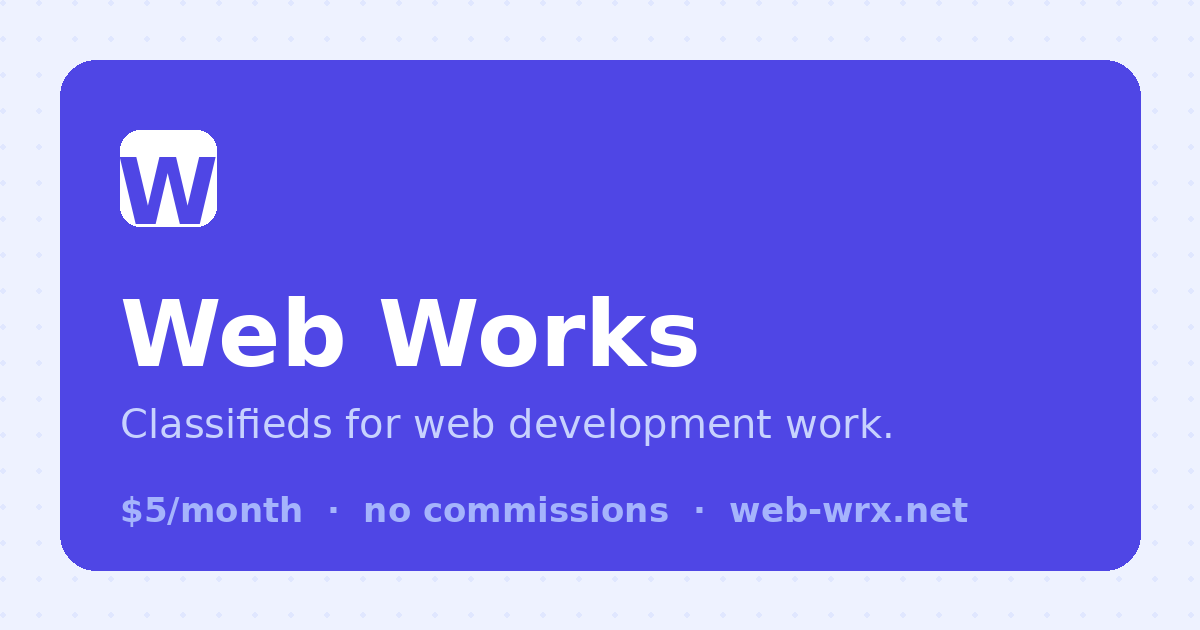
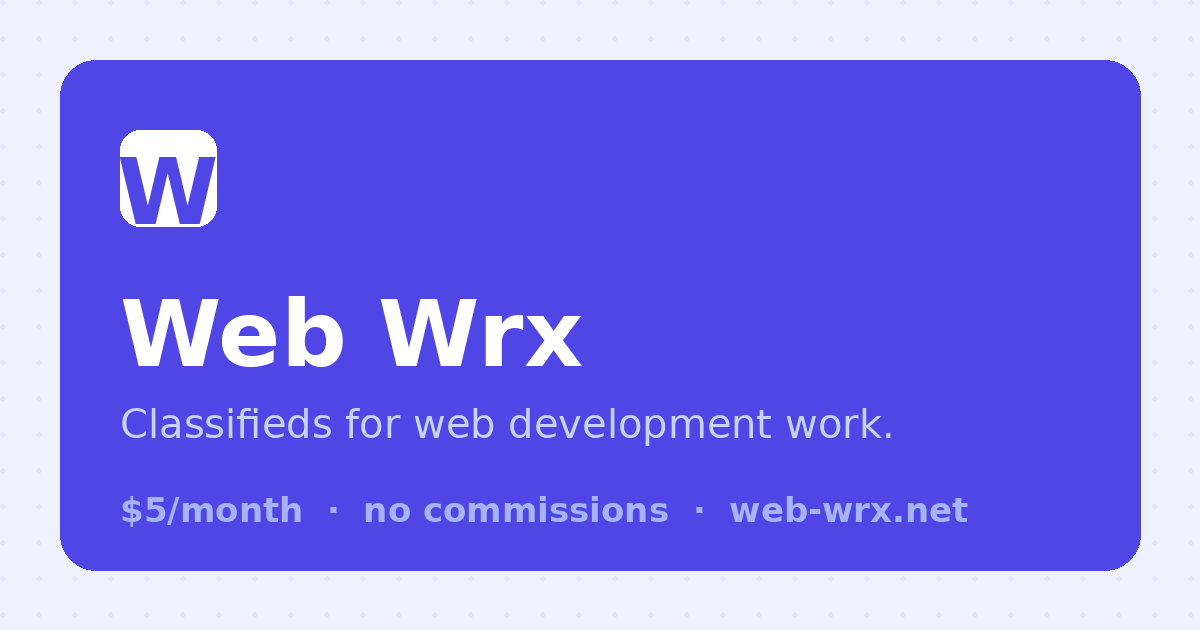
Rebrand: Web Works -> Web Wrx across site, meta, emails, OG image

Changed region(s): [[0.4008, 0.4524, 0.5858, 0.6032]]

diff --git a/src/App.jsx b/src/App.jsx
@@ -21,15 +21,15 @@ import Admin from './pages/Admin'
 import Faq from './pages/Faq'
 
 const ROUTE_META = {
-  '/': ['Web Works — Classifieds for Web Development Work', 'The $5 classifieds for web dev freelancing. Free accounts, direct contact, no commissions.'],
-  '/search': ['Search listings — Web Works', 'Browse every active web development project and talent ad. Filter by keyword or skill.'],
-  '/connect': ['How connecting works — Web Works', 'Reveal contact info and work directly — no platform middleman, no commissions.'],
-  '/about': ['About — Web Works', 'Why one developer built a $5 classifieds board for web development work.'],
-  '/post': ['Post an ad — Web Works', 'Advertise your project or your skills. $5/month, cancel anytime.'],
-  '/faq': ['Pricing & FAQ — Web Works', 'Every price, the refund policy, how review badges work, and who runs the site.'],
-  '/terms': ['Terms of Use — Web Works', 'The rules of the road for Web Works classifieds.'],
-  '/privacy': ['Privacy Policy — Web Works', 'What we collect, why, and what we never do with your data.'],
-  '/cookies': ['Cookie Policy — Web Works', 'The short list of what Web Works stores in your browser.'],
+  '/': ['Web Wrx — Classifieds for Web Development Work', 'The $5 classifieds for web dev freelancing. Free accounts, direct contact, no commissions.'],
+  '/search': ['Search listings — Web Wrx', 'Browse every active web development project and talent ad. Filter by keyword or skill.'],
+  '/connect': ['How connecting works — Web Wrx', 'Reveal contact info and work directly — no platform middleman, no commissions.'],
+  '/about': ['About — Web Wrx', 'Why one developer built a $5 classifieds board for web development work.'],
+  '/post': ['Post an ad — Web Wrx', 'Advertise your project or your skills. $5/month, cancel anytime.'],
+  '/faq': ['Pricing & FAQ — Web Wrx', 'Every price, the refund policy, how review badges work, and who runs the site.'],
+  '/terms': ['Terms of Use — Web Wrx', 'The rules of the road for Web Wrx classifieds.'],
+  '/privacy': ['Privacy Policy — Web Wrx', 'What we collect, why, and what we never do with your data.'],
+  '/cookies': ['Cookie Policy — Web Wrx', 'The short list of what Web Wrx stores in your browser.'],
 }
 
 function RouteMeta() {
@@ -37,8 +37,8 @@ function RouteMeta() {
   useEffect(() => {
     const meta =
       ROUTE_META[pathname] ??
-      (pathname.startsWith('/listing/') ? ['Listing — Web Works', 'A web development classified ad on Web Works.']
-      : pathname.startsWith('/profile/') ? ['Profile — Web Works', 'A freelancer or client profile on Web Works.']
+      (pathname.startsWith('/listing/') ? ['Listing — Web Wrx', 'A web development classified ad on Web Wrx.']
+      : pathname.startsWith('/profile/') ? ['Profile — Web Wrx', 'A freelancer or client profile on Web Wrx.']
       : ROUTE_META['/'])
     document.title = meta[0]
     document.querySelector('meta[name="description"]')?.setAttribute('content', meta[1])
@@ -90,7 +90,7 @@ export default function App() {
         </Routes>
       </main>
       <footer className="border-t border-slate-200 bg-white py-8 text-center text-sm text-slate-500">
-        <p>Web Works — cheap &amp; easy classifieds for web development work. No commissions, ever.</p>
+        <p>Web Wrx — cheap &amp; easy classifieds for web development work. No commissions, ever.</p>
         <nav className="mt-3 flex justify-center gap-5">
           <Link to="/about" className="hover:text-slate-700 hover:underline">About us</Link>
           <Link to="/faq" className="hover:text-slate-700 hover:underline">Pricing &amp; FAQ</Link>

diff --git a/index.html b/index.html
@@ -4,17 +4,17 @@
     <meta charset="UTF-8" />
     <link rel="icon" type="image/svg+xml" href="/favicon.svg" />
     <meta name="viewport" content="width=device-width, initial-scale=1.0" />
-    <meta name="description" content="Web Works — the $5 classifieds for web development freelancing. Find web dev talent or your next side gig. No commissions, no middleman." />
-    <title>Web Works — Classifieds for Web Development Work</title>
+    <meta name="description" content="Web Wrx — the $5 classifieds for web development freelancing. Find web dev talent or your next side gig. No commissions, no middleman." />
+    <title>Web Wrx — Classifieds for Web Development Work</title>
     <link rel="canonical" href="https://www.web-wrx.net/" />
     <meta property="og:type" content="website" />
-    <meta property="og:site_name" content="Web Works" />
-    <meta property="og:title" content="Web Works — Classifieds for Web Development Work" />
+    <meta property="og:site_name" content="Web Wrx" />
+    <meta property="og:title" content="Web Wrx — Classifieds for Web Development Work" />
     <meta property="og:description" content="The $5 classifieds for web dev freelancing. Free accounts, direct contact, no commissions — you keep 100% of what you earn." />
     <meta property="og:url" content="https://www.web-wrx.net/" />
     <meta property="og:image" content="https://www.web-wrx.net/og.png" />
     <meta name="twitter:card" content="summary_large_image" />
-    <meta name="twitter:title" content="Web Works — Classifieds for Web Development Work" />
+    <meta name="twitter:title" content="Web Wrx — Classifieds for Web Development Work" />
     <meta name="twitter:description" content="The $5 classifieds for web dev freelancing. No commissions, no middleman." />
     <meta name="twitter:image" content="https://www.web-wrx.net/og.png" />
     <script defer src="/_vercel/insights/script.js"></script>

diff --git a/src/pages/About.jsx b/src/pages/About.jsx
@@ -4,11 +4,11 @@ import { HeroIllustration } from '../components/illustrations'
 export default function About() {
   return (
     <div className="mx-auto max-w-3xl py-12">
-      <h1 className="text-3xl font-extrabold tracking-tight sm:text-4xl">About Web Works</h1>
+      <h1 className="text-3xl font-extrabold tracking-tight sm:text-4xl">About Web Wrx</h1>
 
       <div className="prose-slate mt-6 space-y-4 text-slate-700">
         <p>
-          Web Works is a classified-ad board for one thing only: websites and web apps.
+          Web Wrx is a classified-ad board for one thing only: websites and web apps.
           Freelancers post what they can build; clients post what they need built. You find
           each other, reveal contact info, and work together directly — off the platform,
           on your own terms.
@@ -19,7 +19,7 @@ export default function About() {
           <a href="https://www.linkedin.com/in/davidbeerman/" target="_blank" rel="noopener noreferrer" className="text-brand-600 underline">
             Dave Beerman
           </a>
-          , the developer who built and runs Web Works. I got tired of watching freelance
+          , the developer who built and runs Web Wrx. I got tired of watching freelance
           platforms take 10–20% of every invoice while inserting themselves into every
           conversation, payment, and dispute. The big marketplaces have their place, but a
           lot of us just want what the classifieds section used to be: a cheap ad, a phone

diff --git a/src/pages/Terms.jsx b/src/pages/Terms.jsx
@@ -16,14 +16,14 @@ export default function Terms() {
       <p className="mt-2 text-sm text-slate-500">Effective {EFFECTIVE_DATE}</p>
 
       <p className="mt-6 text-slate-700">
-        Welcome to Web Works ("we," "us," the "Service"), a classified-advertising service at
+        Welcome to Web Wrx ("we," "us," the "Service"), a classified-advertising service at
         web-wrx.net for web development projects and talent. By creating an account or posting
         a listing, you agree to these Terms. If you don't agree, please don't use the Service.
       </p>
 
-      <Section n={1} title="What Web Works is (and isn't)">
+      <Section n={1} title="What Web Wrx is (and isn't)">
         <p>
-          Web Works is an advertising board. We publish listings and let users share contact
+          Web Wrx is an advertising board. We publish listings and let users share contact
           information with each other. We are <strong>not</strong> a party to any agreement
           between users, and we do not process payments between users, supervise work, verify
           the accuracy of listings, guarantee outcomes, or mediate disputes. Any engagement you

diff --git a/src/pages/Connect.jsx b/src/pages/Connect.jsx
@@ -8,7 +8,7 @@ export default function Connect() {
       <ConnectSpot className="h-24 w-24" />
       <h1 className="mt-4 text-3xl font-extrabold tracking-tight sm:text-4xl">How connecting works</h1>
       <p className="mt-3 text-lg text-slate-600">
-        Web Works doesn't sit between you and the person you want to work with. Here's
+        Web Wrx doesn't sit between you and the person you want to work with. Here's
         exactly what happens when a client and a freelancer find each other.
       </p>
 
@@ -33,7 +33,7 @@ export default function Connect() {
             <p className="mt-1 text-slate-700">
               From there you communicate directly — email, phone, video call, your project
               tools. Negotiate scope, price, and timeline yourselves, use your own contract,
-              and pay however you both prefer. Web Works never touches the money, which is
+              and pay however you both prefer. Web Wrx never touches the money, which is
               why there are no commissions on anything you earn or spend.
             </p>
           </div>

diff --git a/src/pages/Cookies.jsx b/src/pages/Cookies.jsx
@@ -10,7 +10,7 @@ export default function Cookies() {
 
       <div className="mt-6 space-y-4 text-slate-700">
         <p>
-          Web Works uses as little in the way of cookies and browser storage as we can get away
+          Web Wrx uses as little in the way of cookies and browser storage as we can get away
           with. We use <strong>no advertising cookies, no cross-site trackers, and no social
           media pixels</strong> — which is why you don't see a cookie consent banner here.
         </p>
@@ -44,7 +44,7 @@ export default function Cookies() {
         <h2 className="pt-4 text-lg font-bold text-slate-900">Managing cookies</h2>
         <p>
           You can clear local storage and cookies through your browser settings at any time — the
-          only effect on Web Works is that you'll be signed out. Blocking essential storage
+          only effect on Web Wrx is that you'll be signed out. Blocking essential storage
           entirely may prevent sign-in from working.
         </p>
 

diff --git a/src/pages/Privacy.jsx b/src/pages/Privacy.jsx
@@ -18,7 +18,7 @@ export default function Privacy() {
       <p className="mt-2 text-sm text-slate-500">Effective {EFFECTIVE_DATE}</p>
 
       <p className="mt-6 text-slate-700">
-        This policy explains what Web Works (web-wrx.net) collects, why, and what we do with it.
+        This policy explains what Web Wrx (web-wrx.net) collects, why, and what we do with it.
         The short version: we collect what's needed to run a classifieds site and nothing more.
         We don't sell your data, we don't run advertising, and we don't track you around the web.
       </p>
@@ -96,7 +96,7 @@ export default function Privacy() {
 
       <Section n={7} title="Children">
         <p>
-          Web Works is for adults. We don't knowingly collect data from anyone under 18; if we
+          Web Wrx is for adults. We don't knowingly collect data from anyone under 18; if we
           learn we have, we'll delete it.
         </p>
       </Section>

diff --git a/supabase/functions/notify/index.ts b/supabase/functions/notify/index.ts
@@ -13,17 +13,17 @@ const admin = createClient(
 )
 
 const SITE = 'https://www.web-wrx.net'
-const FROM = 'Web Works <noreply@web-wrx.net>'
+const FROM = 'Web Wrx <noreply@web-wrx.net>'
 
 function layout(inner: string) {
   return `<div style="font-family:Inter,Arial,sans-serif;max-width:520px;margin:0 auto;padding:24px;color:#0f172a">
   <div style="font-weight:800;font-size:18px;margin-bottom:16px">
     <span style="display:inline-block;background:#4f46e5;color:#fff;border-radius:8px;padding:2px 8px">W</span>
-    Web Works
+    Web Wrx
   </div>
   ${inner}
   <p style="color:#94a3b8;font-size:12px;margin-top:32px">
-    Web Works — classifieds for web dev work. You're getting this because of activity on your account.
+    Web Wrx — classifieds for web dev work. You're getting this because of activity on your account.
   </p>
 </div>`
 }

diff --git a/src/pages/ListingDetail.jsx b/src/pages/ListingDetail.jsx
@@ -92,7 +92,7 @@ export default function ListingDetail() {
             <div>
               <div className="text-xs font-semibold uppercase tracking-wide text-slate-400">Contact</div>
               <p className="mt-1 break-words font-medium text-slate-900">{contact}</p>
-              <p className="mt-2 text-xs text-slate-500">Reach out directly — Web Works isn’t part of your conversation or payment.</p>
+              <p className="mt-2 text-xs text-slate-500">Reach out directly — Web Wrx isn’t part of your conversation or payment.</p>
             </div>
           ) : isOwner ? (
             <p className="text-sm text-slate-500">This is your ad.</p>

diff --git a/src/components/Navbar.jsx b/src/components/Navbar.jsx
@@ -12,7 +12,7 @@ export default function Navbar() {
       <div className="mx-auto flex h-16 max-w-6xl items-center justify-between px-4">
         <Link to="/" className="flex items-center gap-2">
           <span className="flex h-8 w-8 items-center justify-center rounded-lg bg-brand-600 font-extrabold text-white">W</span>
-          <span className="text-lg font-bold tracking-tight">Web Works</span>
+          <span className="text-lg font-bold tracking-tight">Web Wrx</span>
         </Link>
 
         <nav className="flex items-center gap-2 sm:gap-3">

diff --git a/src/components/reviews.jsx b/src/components/reviews.jsx
@@ -81,7 +81,7 @@ export function ReportButton({ targetType, targetId }) {
   const [state, setState] = useState(null) // null | 'busy' | 'sent' | error string
 
   if (!user) return null
-  if (state === 'sent') return <p className="text-xs text-slate-400">Report sent — thanks for keeping Web Works honest.</p>
+  if (state === 'sent') return <p className="text-xs text-slate-400">Report sent — thanks for keeping Web Wrx honest.</p>
 
   async function submit() {
     setState('busy')

diff --git a/src/components/LeaveReview.jsx b/src/components/LeaveReview.jsx
@@ -72,7 +72,7 @@ export default function LeaveReview({ subjectId, subjectName, onSubmitted }) {
       {!open ? (
         <div className="flex items-center justify-between gap-3">
           <p className="text-sm text-slate-600">
-            You connected with {subjectName} through Web Works. How did it go?
+            You connected with {subjectName} through Web Wrx. How did it go?
           </p>
           <button
             onClick={() => setOpen(true)}
